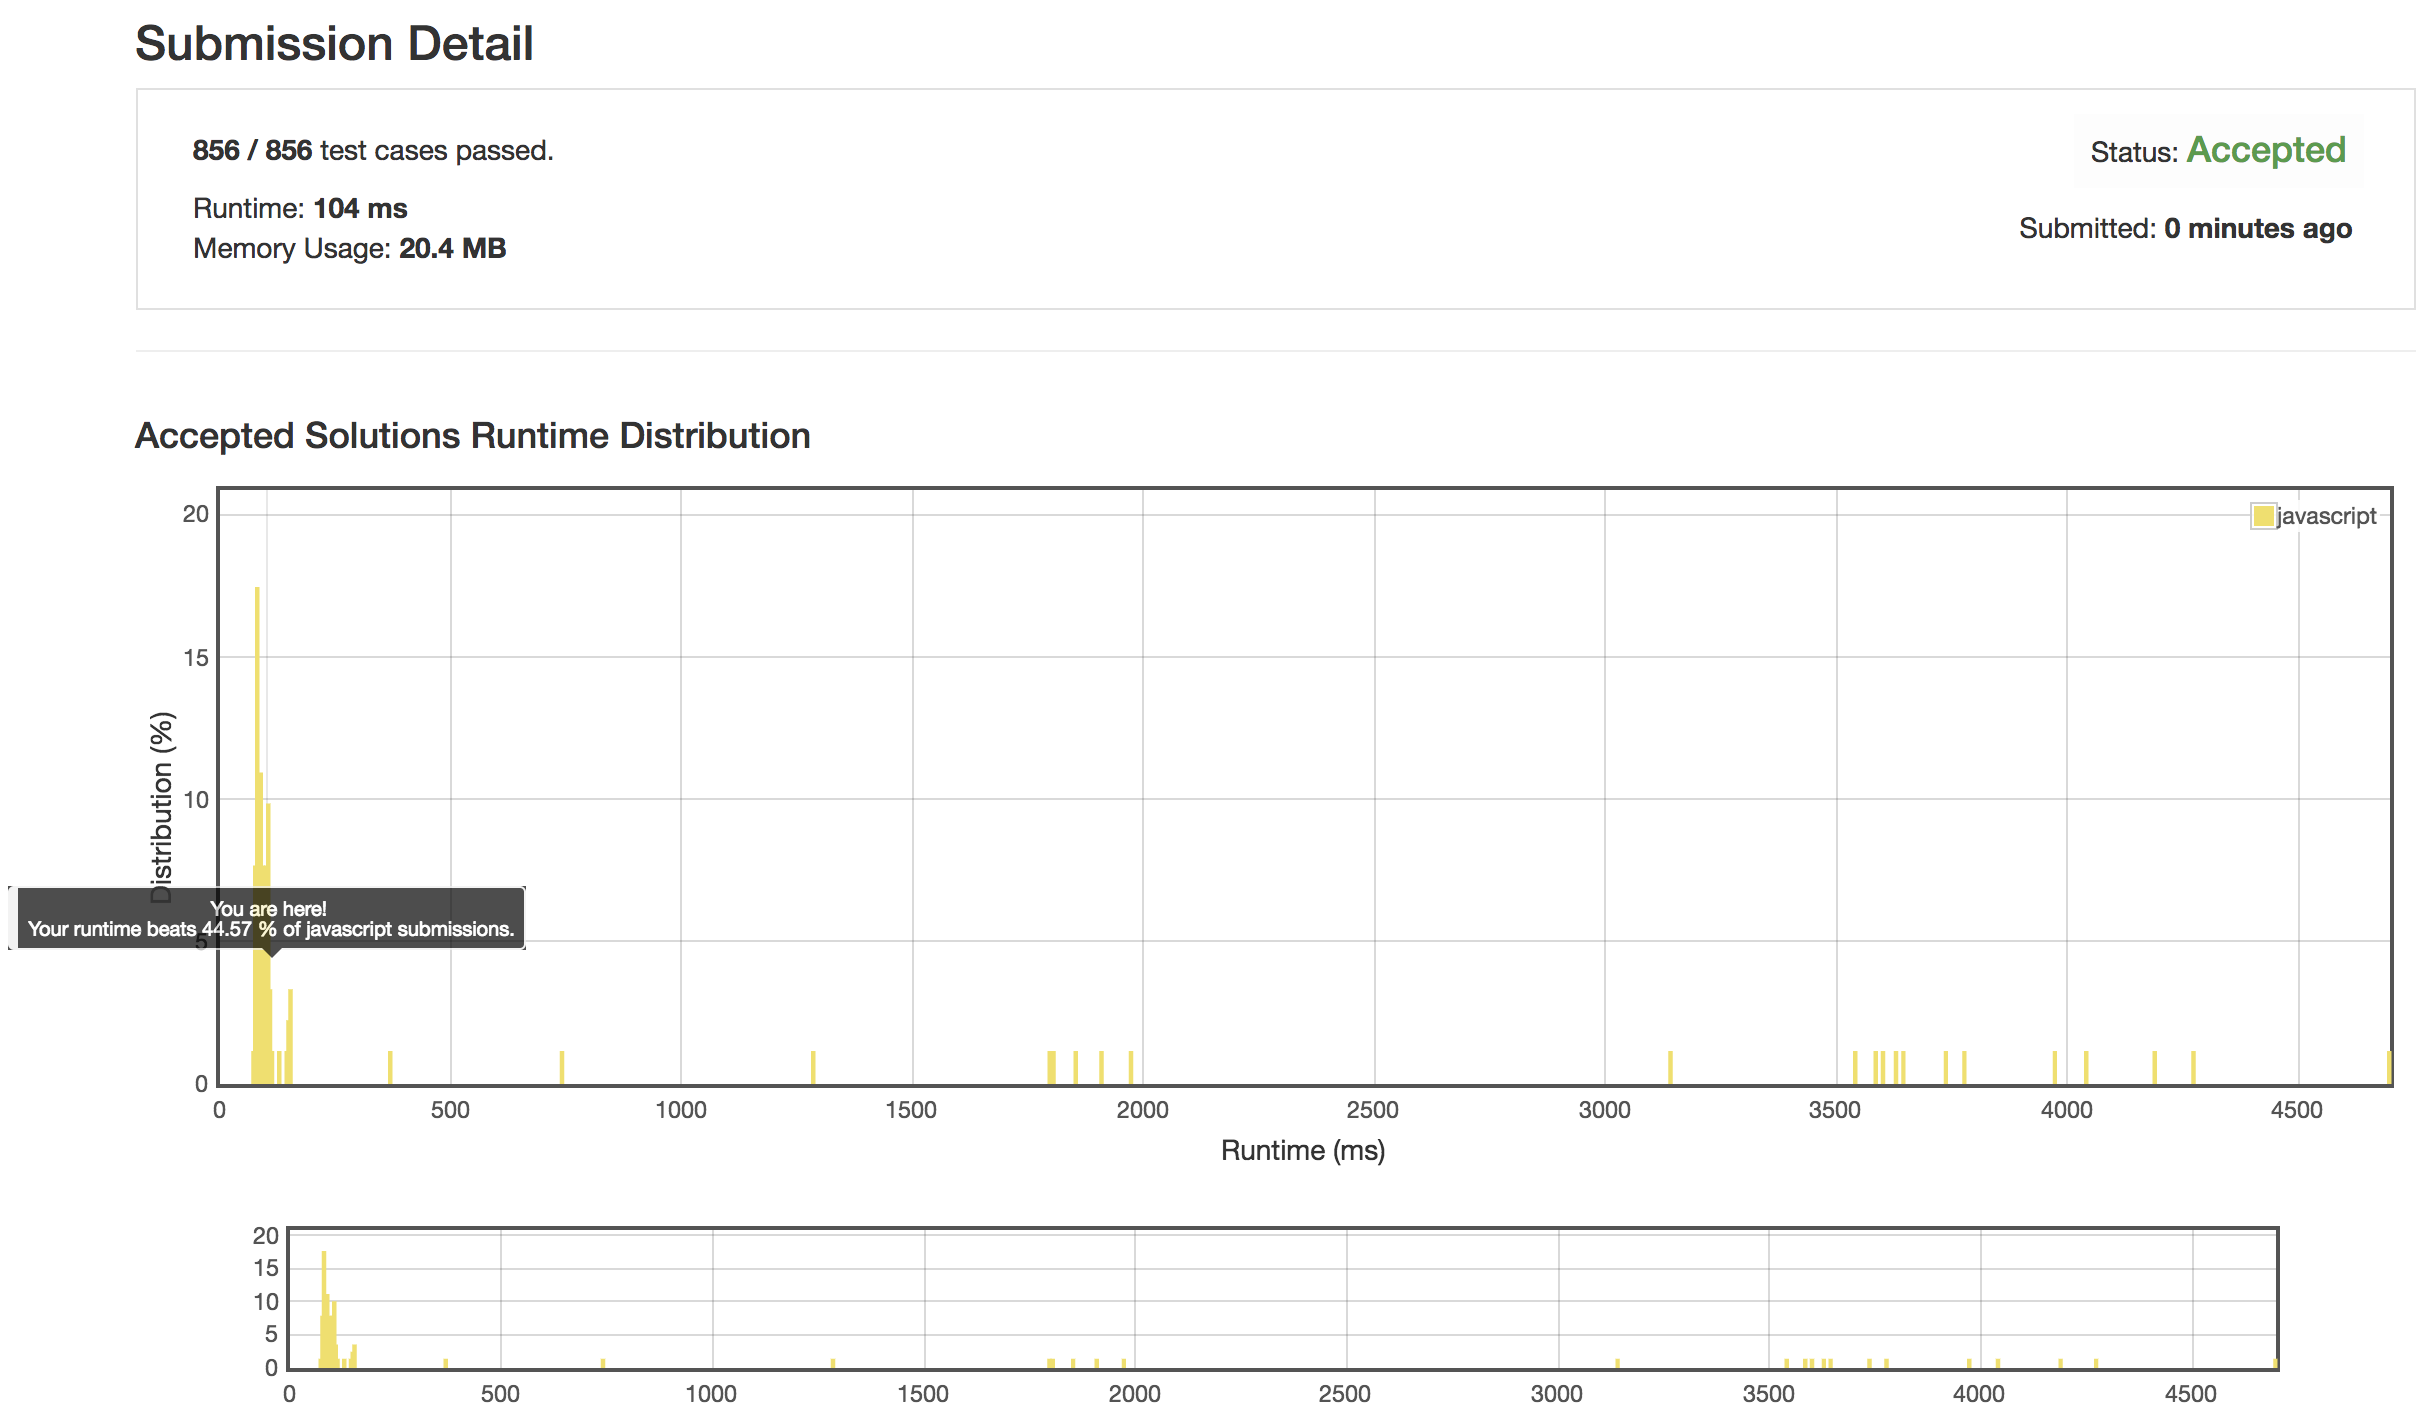
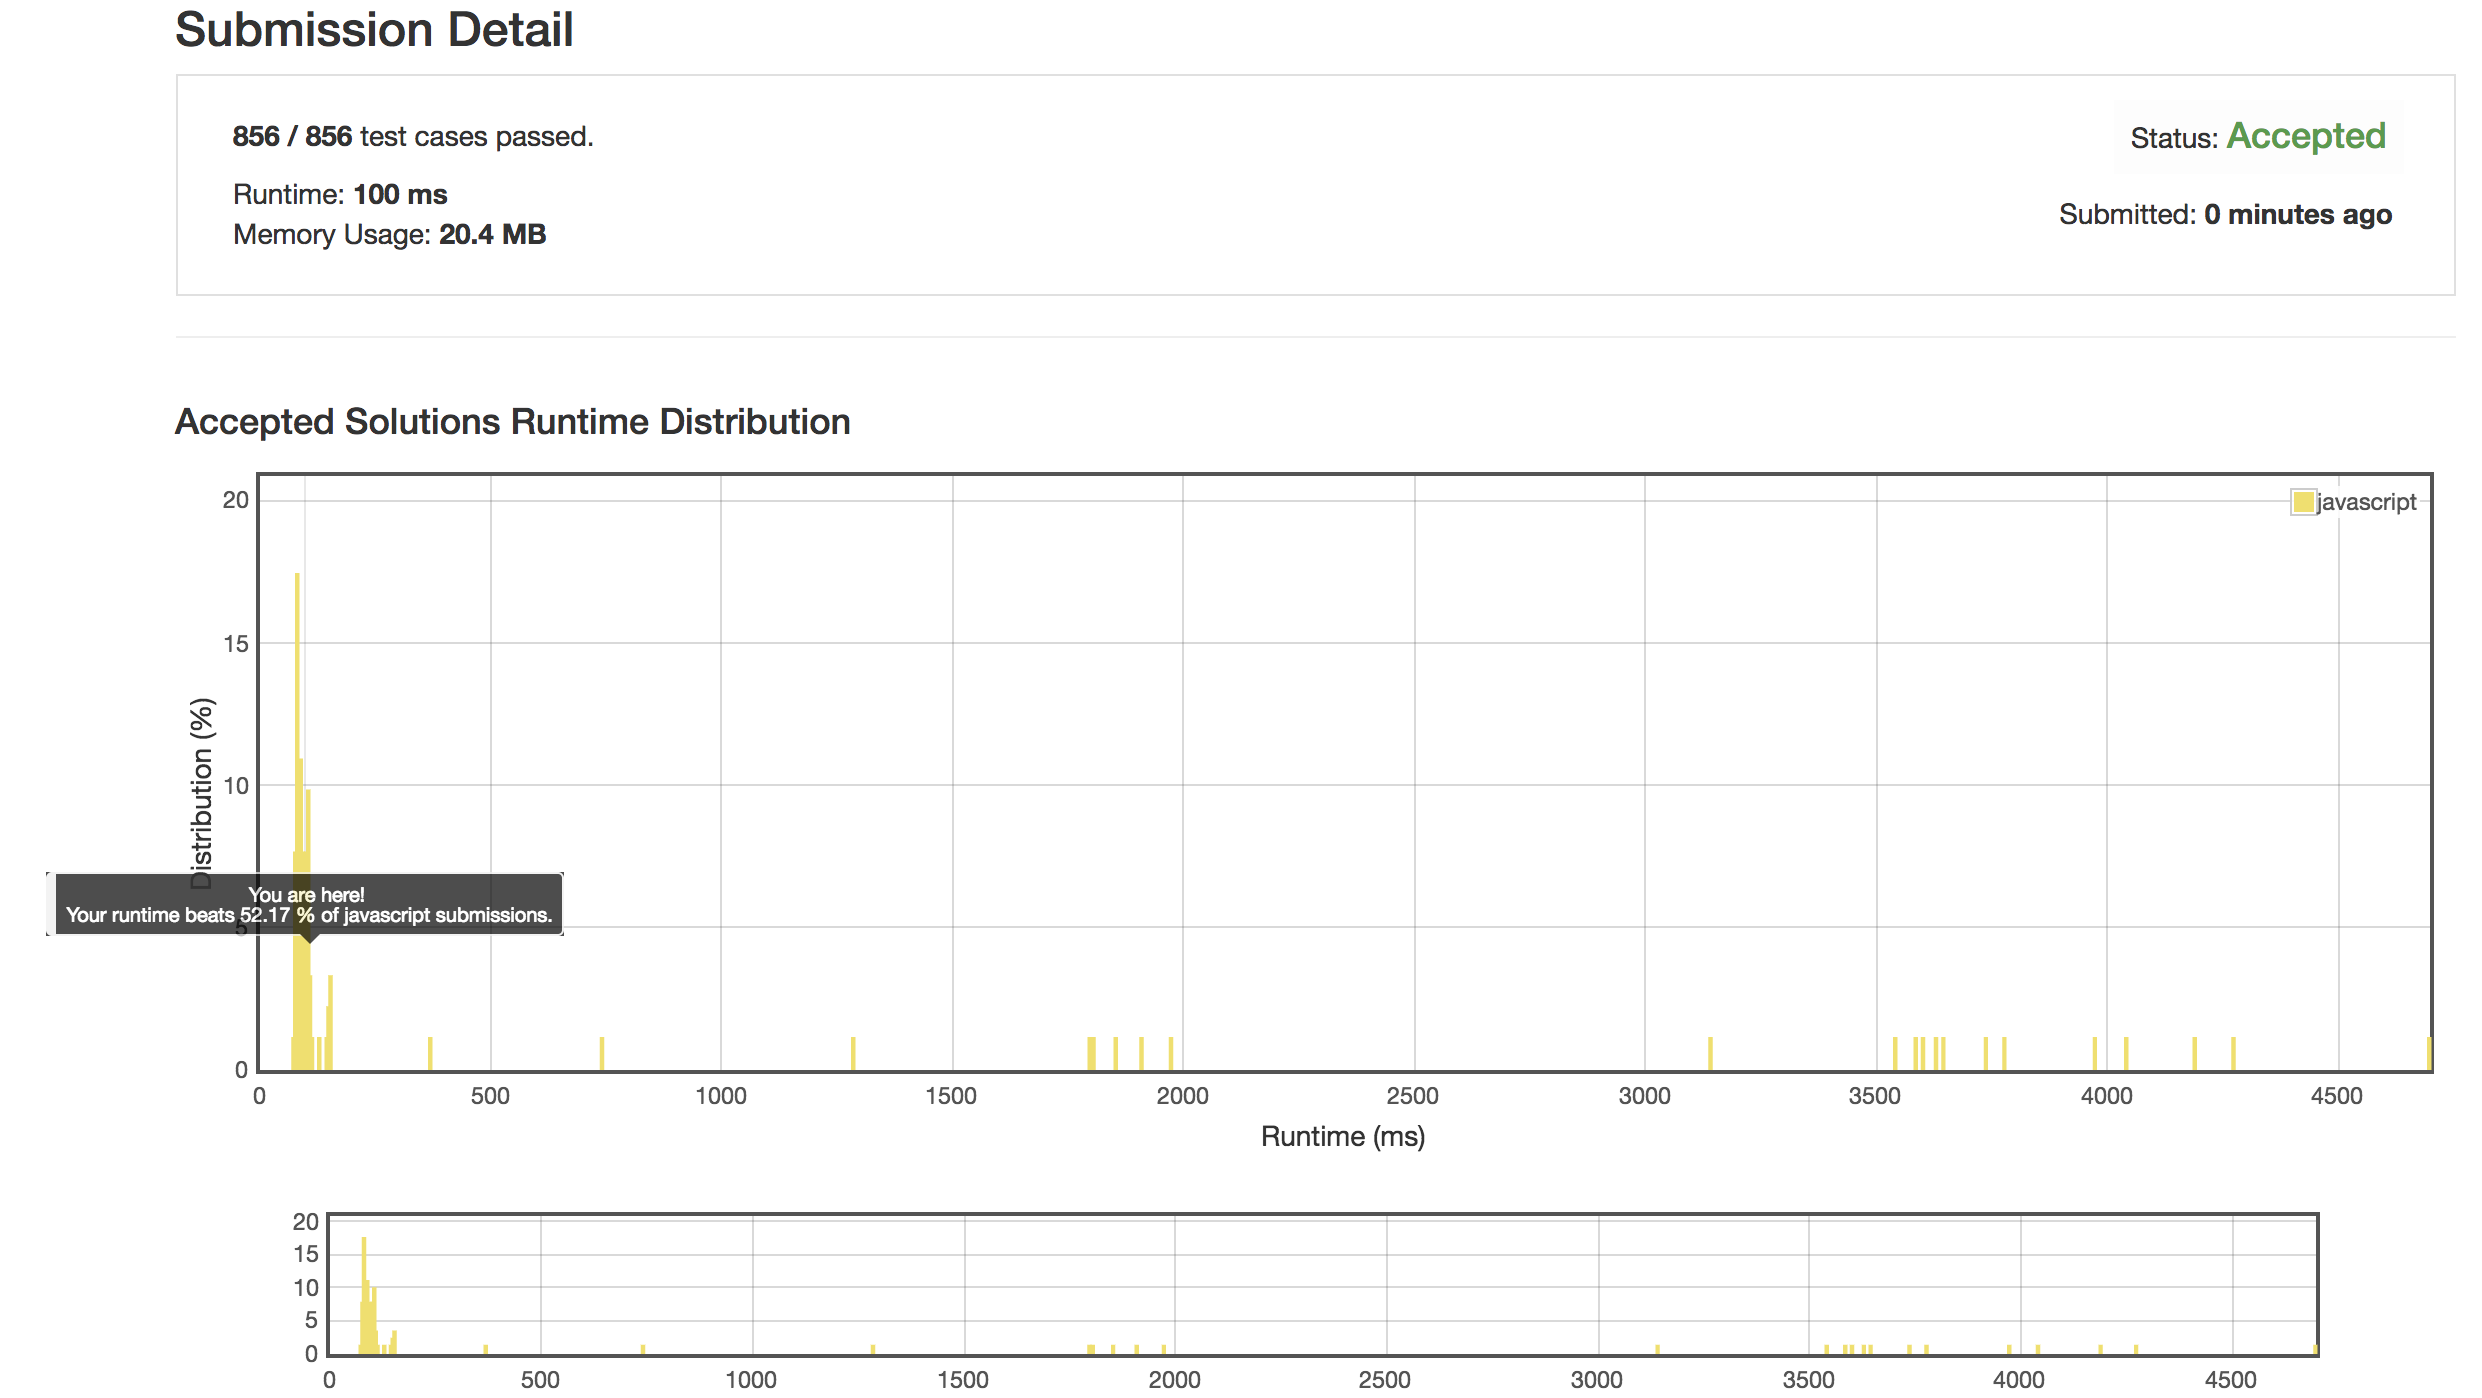
ADD logic to avoid exploring nodes if when max > (N - nodes to visit)

diff --git a/medium/array-nesting/arrayNesting.js b/medium/array-nesting/arrayNesting.js
@@ -13,19 +13,20 @@ var arrayNesting = function(nums) {
     let max = 0;
 
     // Will keep track of visited nodes
-    let visitedNodes = {};
+    let visitedNodes = {}, visitedNodesCount = 0;
     function recLongestGraphPath(vertex, nodesCounter) {
         if (visitedNodes[vertex]) {
             return nodesCounter;
         }
         
+        visitedNodesCount++;
         visitedNodes[vertex] = true;
         return recLongestGraphPath(nums[vertex], nodesCounter + 1);
     }
 
-    // Make sure all paths are explored
-    // TODO: Avoid exploring more paths if max is g.e. than (nums.length - non visited nodes)
-    for (let i = 0; i < nums.length; i++) {
+    // Make sure all paths are explored, but avoid exploring more paths if max is
+    // greater than (N - nodes to visit)
+    for (let i = 0; i < nums.length && max <= nums.length - visitedNodesCount; i++) {
         max = Math.max(max, recLongestGraphPath(i, 0));
     }
     

diff --git a/README.md b/README.md
@@ -40,4 +40,4 @@ So far:
 | [Remove Linked List Elements](easy/remove-linked-list-elements) | Easy | 100% | 22.13% | 7th Feb 2019 |
 | [Longest Palindrome](easy/longest-palindrome) | Easy | 22.90% | 14.85% | 7th Feb 2019 |
 | [Online Stock Span](medium/online-stock-span) | Medium | 25.35% | 100% | 9th Feb 2019 |
-| [Array Nesting](medium/array-nesting) | Medium | 44.57% | 17.86% | 9th Feb 2019 |
+| [Array Nesting](medium/array-nesting) | Medium | 52.17% | 17.86% | 9th Feb 2019 |
